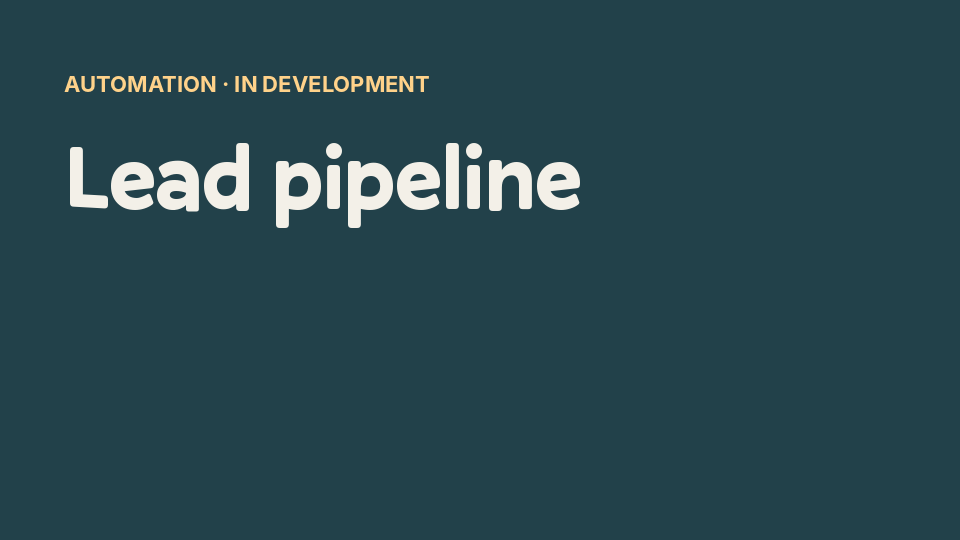
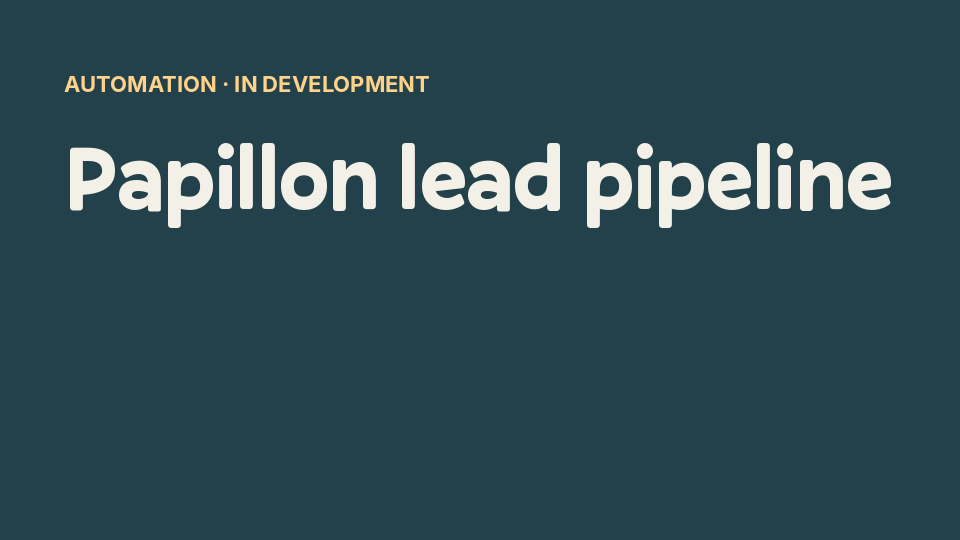
new project list

Changed region(s): [[0.0625, 0.2667, 0.9375, 0.4444]]

diff --git a/sources/Game/Game.js b/sources/Game/Game.js
@@ -69,6 +69,9 @@ export class Game
 
     async init()
     {
+        // Physics engine (largest download) starts loading before anything else
+        const rapierPromise = import('@dimforge/rapier3d')
+
         // Setup
         this.domElement = document.querySelector('.game')
         this.canvasElement = this.domElement.querySelector('.js-canvas')
@@ -100,38 +103,8 @@ export class Game
         const compressedTextureExtension = compressed ? 'ktx' : 'png'
 
         const cb = '?cb=1'
-        this.resources = await this.resourcesLoader.load([
-            [ 'respawnsReferencesModel',    `respawns/respawnsReferences${compressedModelSuffix}.glb${cb}`, 'gltf' ],
-            [ 'behindTheSceneStarsTexture', `behindTheScene/stars.${compressedTextureExtension}${cb}`,      compressedTextureFormat, (resource) => { resource.colorSpace = THREE.SRGBColorSpace; resource.minFilter = THREE.NearestFilter; resource.magFilter = THREE.NearestFilter; resource.generateMipmaps = false; resource.wrapS = THREE.RepeatWrapping; resource.wrapT = THREE.RepeatWrapping; } ],
-            [ 'soundTexture',               `intro/sound.${compressedTextureExtension}${cb}`,               compressedTextureFormat, (resource) => { resource.minFilter = THREE.LinearFilter; resource.magFilter = THREE.LinearFilter; resource.generateMipmaps = false; resource.repeat.x = 0.5; } ],
-            [ 'paletteTexture',             `palette.${compressedTextureExtension}${cb}`,                   compressedTextureFormat, (resource) => { resource.minFilter = THREE.NearestFilter; resource.magFilter = THREE.NearestFilter; resource.generateMipmaps = false; resource.colorSpace = THREE.SRGBColorSpace; } ],
 
-        ])
-        this.options = new Options()
-        // ?spawn=projects (etc.) starts the car at that area; used by "View in the world" on the case studies
-        const spawnQuery = new URLSearchParams(window.location.search).get('spawn')
-        const spawnNames = [ 'landing', 'projects', 'lab', 'career', 'social', 'circuit', 'bowling', 'achievements', 'behindTheScene', 'timeMachine', 'cookie', 'altar' ]
-        this.respawns = new Respawns(spawnNames.includes(spawnQuery) ? spawnQuery : (import.meta.env.VITE_PLAYER_SPAWN || 'landing'))
-        this.view = new View()
-        this.rendering.setPostprocessing()
-        this.rendering.start()
-        this.reveal = new Reveal()
-        this.noises = new Noises()
-        this.weather = new Weather()
-        this.wind = new Wind()
-        this.tracks = new Tracks()
-        this.lighting = new Lighting()
-        this.fog = new Fog()
-        this.water = new Water()
-        this.materials = new Materials()
-        this.objects = new Objects()
-        this.explosions = new Explosions()
-        this.world = new World()
-
-        // Load and init RAPIER
-        const rapierPromise = import('@dimforge/rapier3d')
-
-        // Load rest of resources
+        // Rest of the resources download at the same time as the first batch (was: after it)
         const resourcesPromise = this.resourcesLoader.load(
             [
                 [ 'foliageTexture',                        `foliage/foliageSDF.${compressedTextureExtension}${cb}`,                              compressedTextureFormat, (resource) => { resource.minFilter = THREE.NearestFilter; resource.magFilter = THREE.NearestFilter; resource.generateMipmaps = false; } ],
@@ -177,9 +150,40 @@ export class Game
             ],
             (toLoad, total) =>
             {
-                this.world.intro.updateProgress(1 - toLoad / total)
+                // Starts before the intro exists; the intro picks up the latest value when it's created
+                this.loadProgress = 1 - toLoad / total
+                this.world?.intro?.updateProgress(this.loadProgress)
             }
         )
+
+        this.resources = await this.resourcesLoader.load([
+            [ 'respawnsReferencesModel',    `respawns/respawnsReferences${compressedModelSuffix}.glb${cb}`, 'gltf' ],
+            [ 'behindTheSceneStarsTexture', `behindTheScene/stars.${compressedTextureExtension}${cb}`,      compressedTextureFormat, (resource) => { resource.colorSpace = THREE.SRGBColorSpace; resource.minFilter = THREE.NearestFilter; resource.magFilter = THREE.NearestFilter; resource.generateMipmaps = false; resource.wrapS = THREE.RepeatWrapping; resource.wrapT = THREE.RepeatWrapping; } ],
+            [ 'soundTexture',               `intro/sound.${compressedTextureExtension}${cb}`,               compressedTextureFormat, (resource) => { resource.minFilter = THREE.LinearFilter; resource.magFilter = THREE.LinearFilter; resource.generateMipmaps = false; resource.repeat.x = 0.5; } ],
+            [ 'paletteTexture',             `palette.${compressedTextureExtension}${cb}`,                   compressedTextureFormat, (resource) => { resource.minFilter = THREE.NearestFilter; resource.magFilter = THREE.NearestFilter; resource.generateMipmaps = false; resource.colorSpace = THREE.SRGBColorSpace; } ],
+
+        ])
+        this.options = new Options()
+        // ?spawn=projects (etc.) starts the car at that area; used by "View in the world" on the case studies
+        const spawnQuery = new URLSearchParams(window.location.search).get('spawn')
+        const spawnNames = [ 'landing', 'projects', 'lab', 'career', 'social', 'circuit', 'bowling', 'achievements', 'behindTheScene', 'timeMachine', 'cookie', 'altar' ]
+        this.respawns = new Respawns(spawnNames.includes(spawnQuery) ? spawnQuery : (import.meta.env.VITE_PLAYER_SPAWN || 'landing'))
+        this.view = new View()
+        this.rendering.setPostprocessing()
+        this.rendering.start()
+        this.reveal = new Reveal()
+        this.noises = new Noises()
+        this.weather = new Weather()
+        this.wind = new Wind()
+        this.tracks = new Tracks()
+        this.lighting = new Lighting()
+        this.fog = new Fog()
+        this.water = new Water()
+        this.materials = new Materials()
+        this.objects = new Objects()
+        this.explosions = new Explosions()
+        this.world = new World()
+        this.world.intro?.updateProgress(this.loadProgress ?? 0)
 
         const [ newResources, RAPIER ] = await Promise.all([ resourcesPromise, rapierPromise ])
         this.RAPIER = RAPIER

diff --git a/sources/data/projects.js b/sources/data/projects.js
@@ -1,5 +1,52 @@
-// Sachin's selected work. Projects with a public link open it; the rest say there is none yet.
+// Sachin's selected work, strongest first. Projects with a public link open it; the rest say there is none yet.
 export default [
+    {
+        title: 'Rocket Landing Simulator',
+        titleSmall: [ 'Rocket', 'landing' ],
+        url: '',
+        attributes:
+        {
+            role: [ 'Guidance, solver', 'simulation' ],
+            with: 'Tested vs G-FOLD',
+        },
+        distinctions: [],
+        images: [ 'sk-rocket-1.png', 'sk-rocket-2.png', 'sk-rocket-3.png' ]
+    },
+    {
+        title: 'Language-Controlled Robot Arm',
+        titleSmall: [ 'Robot', 'arm' ],
+        url: '',
+        attributes:
+        {
+            role: [ 'Planning, IK', 'perception, ROS 2' ],
+            with: 'MuJoCo, Claude',
+        },
+        distinctions: [],
+        images: [ 'sk-arm-1.png', 'sk-arm-2.png' ]
+    },
+    {
+        title: 'Satellite Collision Watch',
+        titleSmall: [ 'Satellite', 'watch' ],
+        url: '',
+        attributes:
+        {
+            role: [ 'Screening', 'orbit maths' ],
+            with: '18,500 objects',
+        },
+        distinctions: [],
+        images: [ 'sk-sat-1.png', 'sk-sat-2.png' ]
+    },
+    {
+        title: 'Drone Swarm Mapper',
+        titleSmall: [ 'Drone', 'swarm' ],
+        url: '',
+        attributes:
+        {
+            role: [ 'Exploration', 'flight sim' ],
+        },
+        distinctions: [],
+        images: [ 'sk-drone-1.png', 'sk-drone-2.png' ]
+    },
     {
         title: 'THREXA',
         titleSmall: [ 'THREXA', 'ERP' ],
@@ -13,15 +60,16 @@ export default [
         images: [ 'sk-threxa-1.png', 'sk-threxa-2.png', 'sk-threxa-3.png', 'sk-threxa-4.png' ]
     },
     {
-        title: 'WHAT RA SUDEEEP?',
-        titleSmall: [ 'WHAT RA', 'SUDEEEP?' ],
-        url: '',
+        title: 'Papillon Interiors',
+        titleSmall: [ 'Papillon', 'Interiors' ],
+        url: 'https://github.com/Sachin-kalaiselvan/papllions',
         attributes:
         {
-            role: [ 'Direction, design', 'code' ],
+            role: 'Design and development',
+            with: 'Papillon Interiors',
         },
         distinctions: [],
-        images: [ 'sk-wrs-1.png' ]
+        images: [ 'sk-papillon-1.png', 'sk-papillon-2.png' ]
     },
     {
         title: 'Sentra',
@@ -45,17 +93,5 @@ export default [
         },
         distinctions: [],
         images: [ 'sk-guild-1.png' ]
-    },
-    {
-        title: 'Papillon Interiors',
-        titleSmall: [ 'Papillon', 'Interiors' ],
-        url: 'https://papllions.vercel.app',
-        attributes:
-        {
-            role: 'Design and development',
-            with: 'Papillon Interiors',
-        },
-        distinctions: [],
-        images: [ 'sk-papillon-1.png', 'sk-papillon-2.png', 'sk-papillon-3.png' ]
     },
 ]

diff --git a/sources/data/lab.js b/sources/data/lab.js
@@ -1,10 +1,17 @@
 // Sachin's smaller builds and experiments. Where there is no public link, the board says so.
+const card = (key) => ({ image: `sk-${key}.png`, imageMini: `sk-${key}-mini.png` })
 export default [
-    { title: 'Core Blocks', url: '', image: 'sk-core-blocks.png', imageMini: 'sk-core-blocks-mini.png' },
-    { title: 'Gridlock Arrows', url: 'https://play.google.com/store/apps/details?id=co.theingredientlist.arrowout', image: 'sk-gridlock-arrows.png', imageMini: 'sk-gridlock-arrows-mini.png' },
-    { title: 'Box costing calculator', url: 'https://boxcalc.theingredientlist.co', image: 'sk-box-costing.png', imageMini: 'sk-box-costing-mini.png' },
-    { title: 'Bengaluru: Traffic Life', url: '', image: 'sk-traffic-life.png', imageMini: 'sk-traffic-life-mini.png' },
-    { title: 'Lead pipeline', url: '', image: 'sk-lead-pipeline.png', imageMini: 'sk-lead-pipeline-mini.png' },
-    { title: 'Gridshot', url: '', image: 'sk-gridshot.png', imageMini: 'sk-gridshot-mini.png' },
-    { title: 'QuantaGrid', url: 'https://github.com/Sachin-kalaiselvan/quantagrid', image: 'sk-quantagrid.png', imageMini: 'sk-quantagrid-mini.png' },
+    { title: 'WHAT RA SUDEEEP?', url: '', ...card('wrs') },
+    { title: 'Bengaluru: Traffic Life', url: '', ...card('traffic-life') },
+    { title: 'Core Blocks', url: 'https://apps.theingredientlist.co/coreblocks', ...card('core-blocks') },
+    { title: 'Gridlock Arrows', url: 'https://play.google.com/store/apps/details?id=co.theingredientlist.arrowout', ...card('gridlock-arrows') },
+    { title: 'Box costing calculator', url: 'https://boxcalc.theingredientlist.co', ...card('box-costing') },
+    { title: 'Borrower Risk Intelligence', url: 'https://huggingface.co/spaces/SachinK011/borrower-risk-intelligence', ...card('borrower-risk') },
+    { title: 'Financial Document Analyzer', url: 'https://huggingface.co/spaces/SachinK011/financial-document-analyzer', ...card('fin-docs') },
+    { title: 'Credit Scoring API', url: 'https://github.com/Sachin-kalaiselvan/credit-scoring-api', ...card('credit-api') },
+    { title: 'Job application pipeline', url: '', ...card('job-pipeline') },
+    { title: 'Papillon lead pipeline', url: 'https://github.com/Sachin-kalaiselvan/papillon-leads', ...card('lead-pipeline') },
+    { title: 'J.K. Padmalaya booking', url: '', ...card('padmalaya') },
+    { title: 'Gridshot', url: '', ...card('gridshot') },
+    { title: 'QuantaGrid', url: 'https://github.com/Sachin-kalaiselvan/quantagrid', ...card('quantagrid') },
 ]
